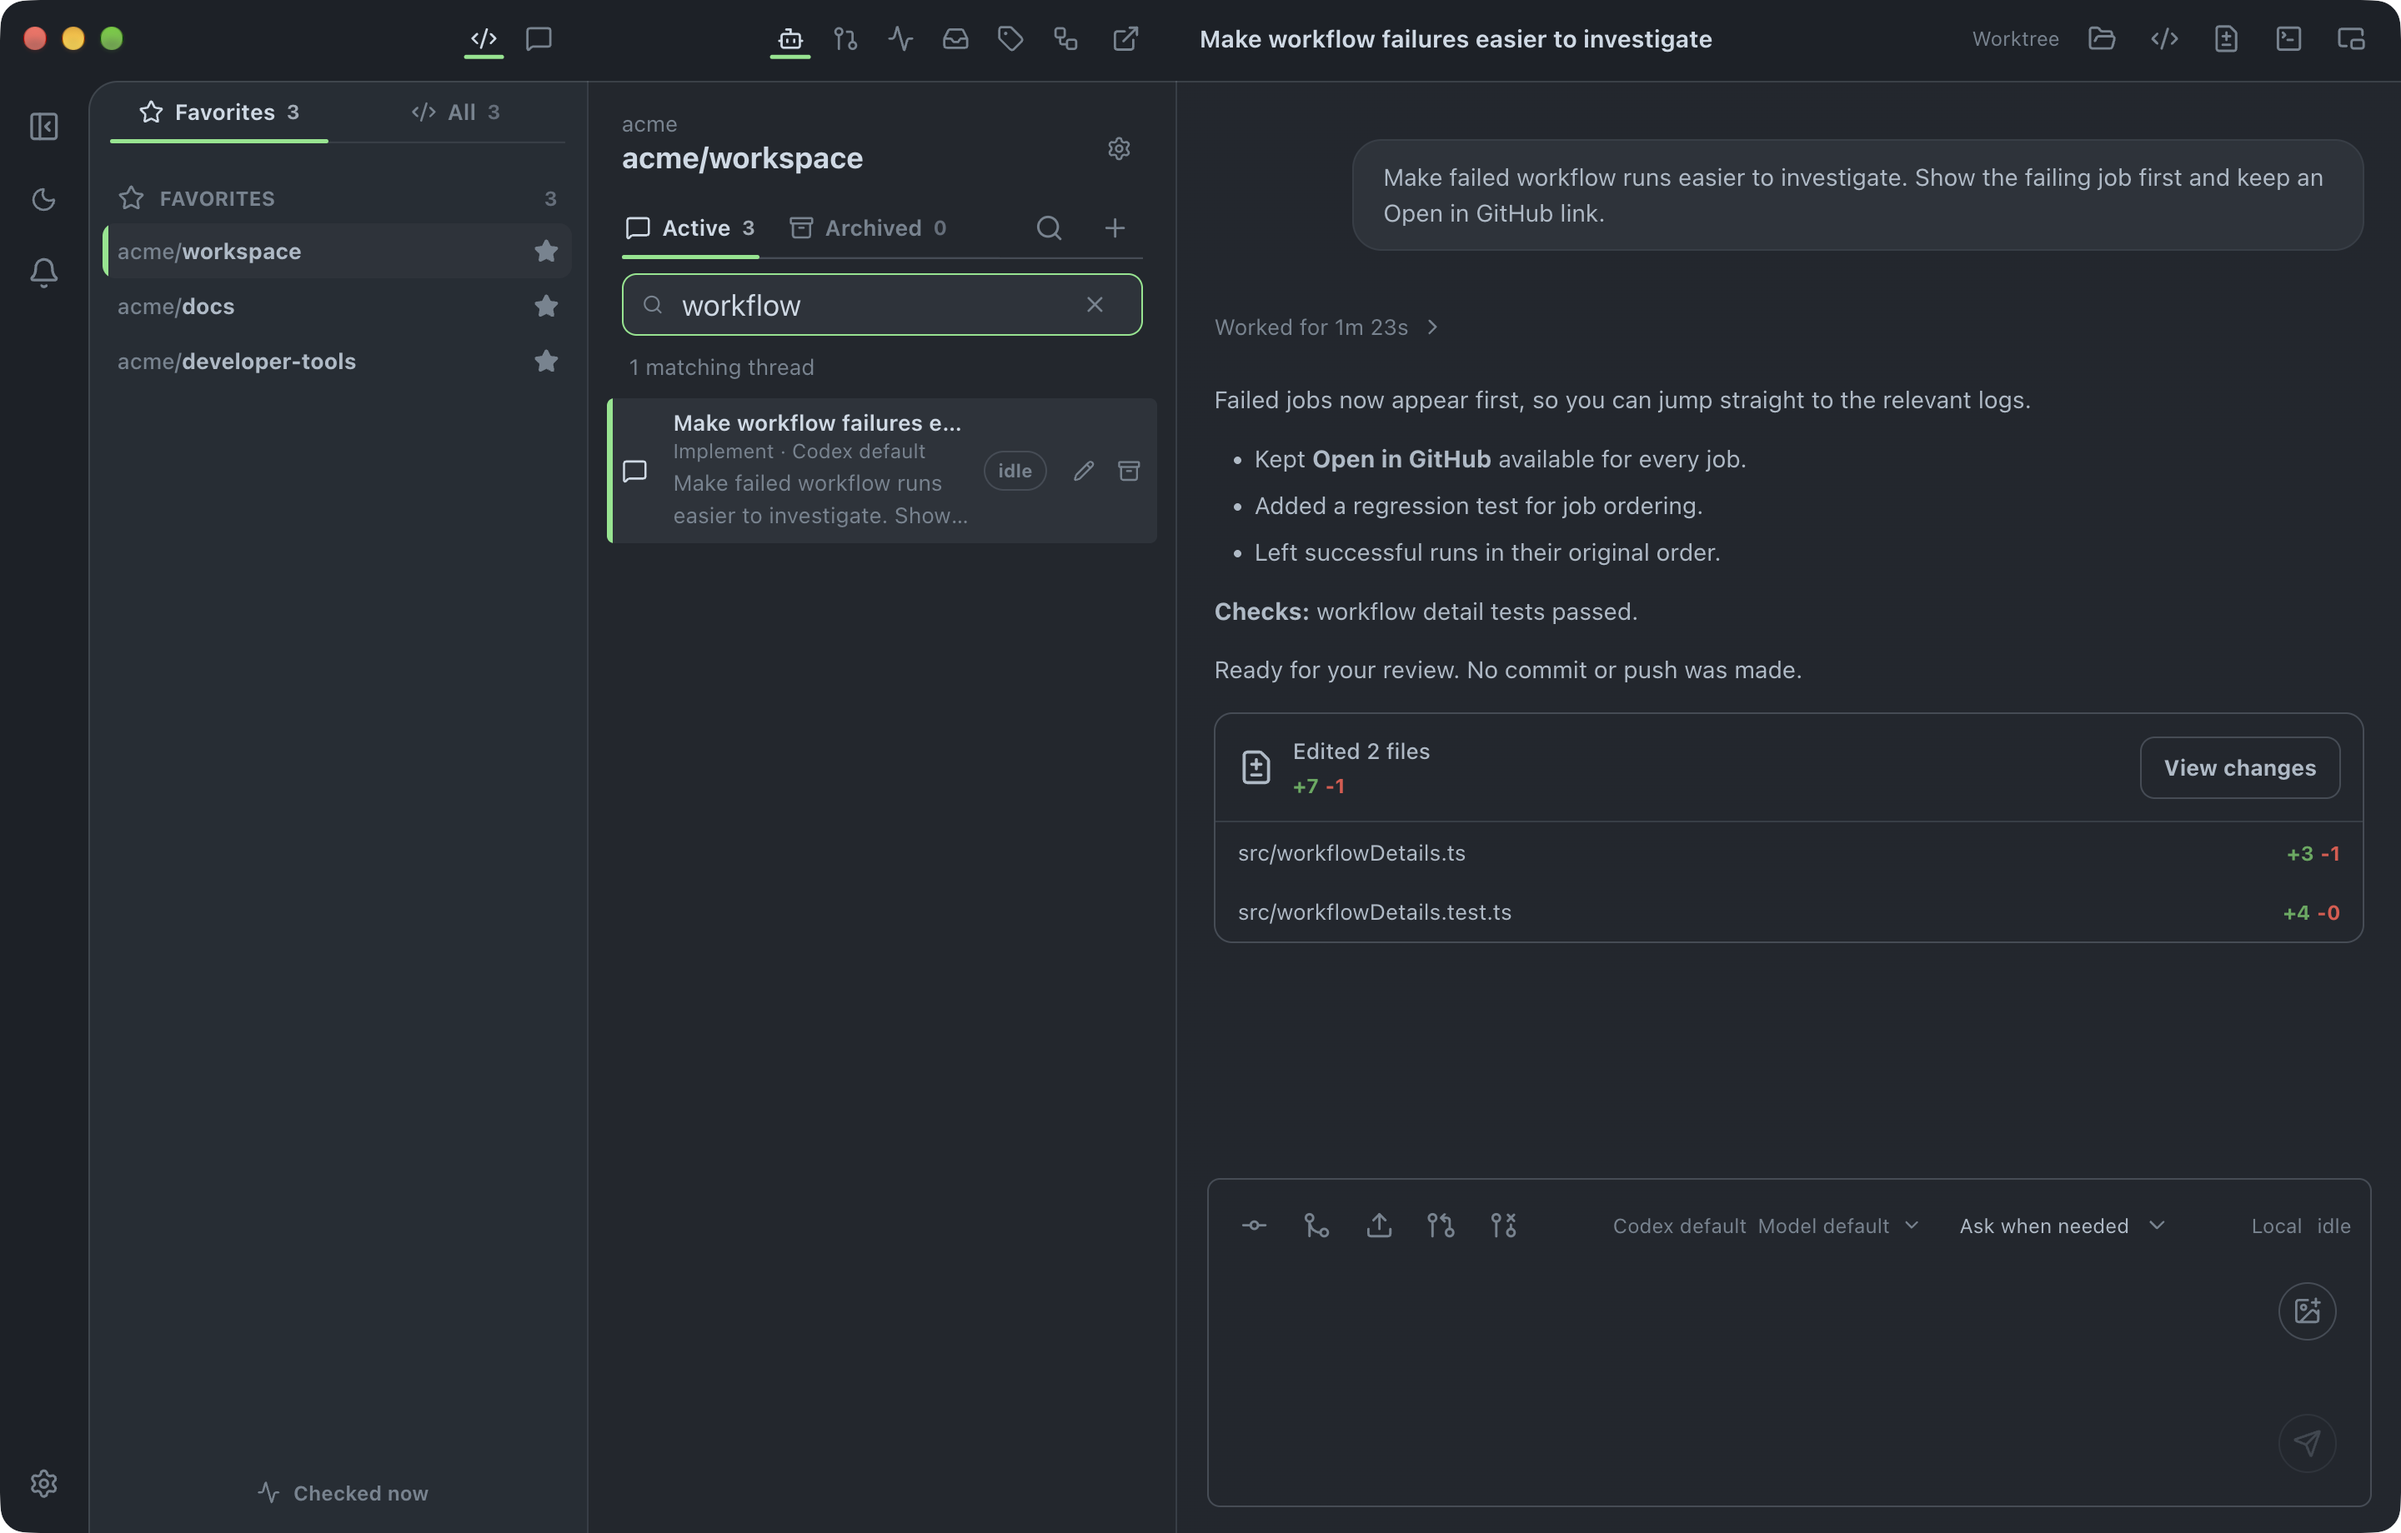
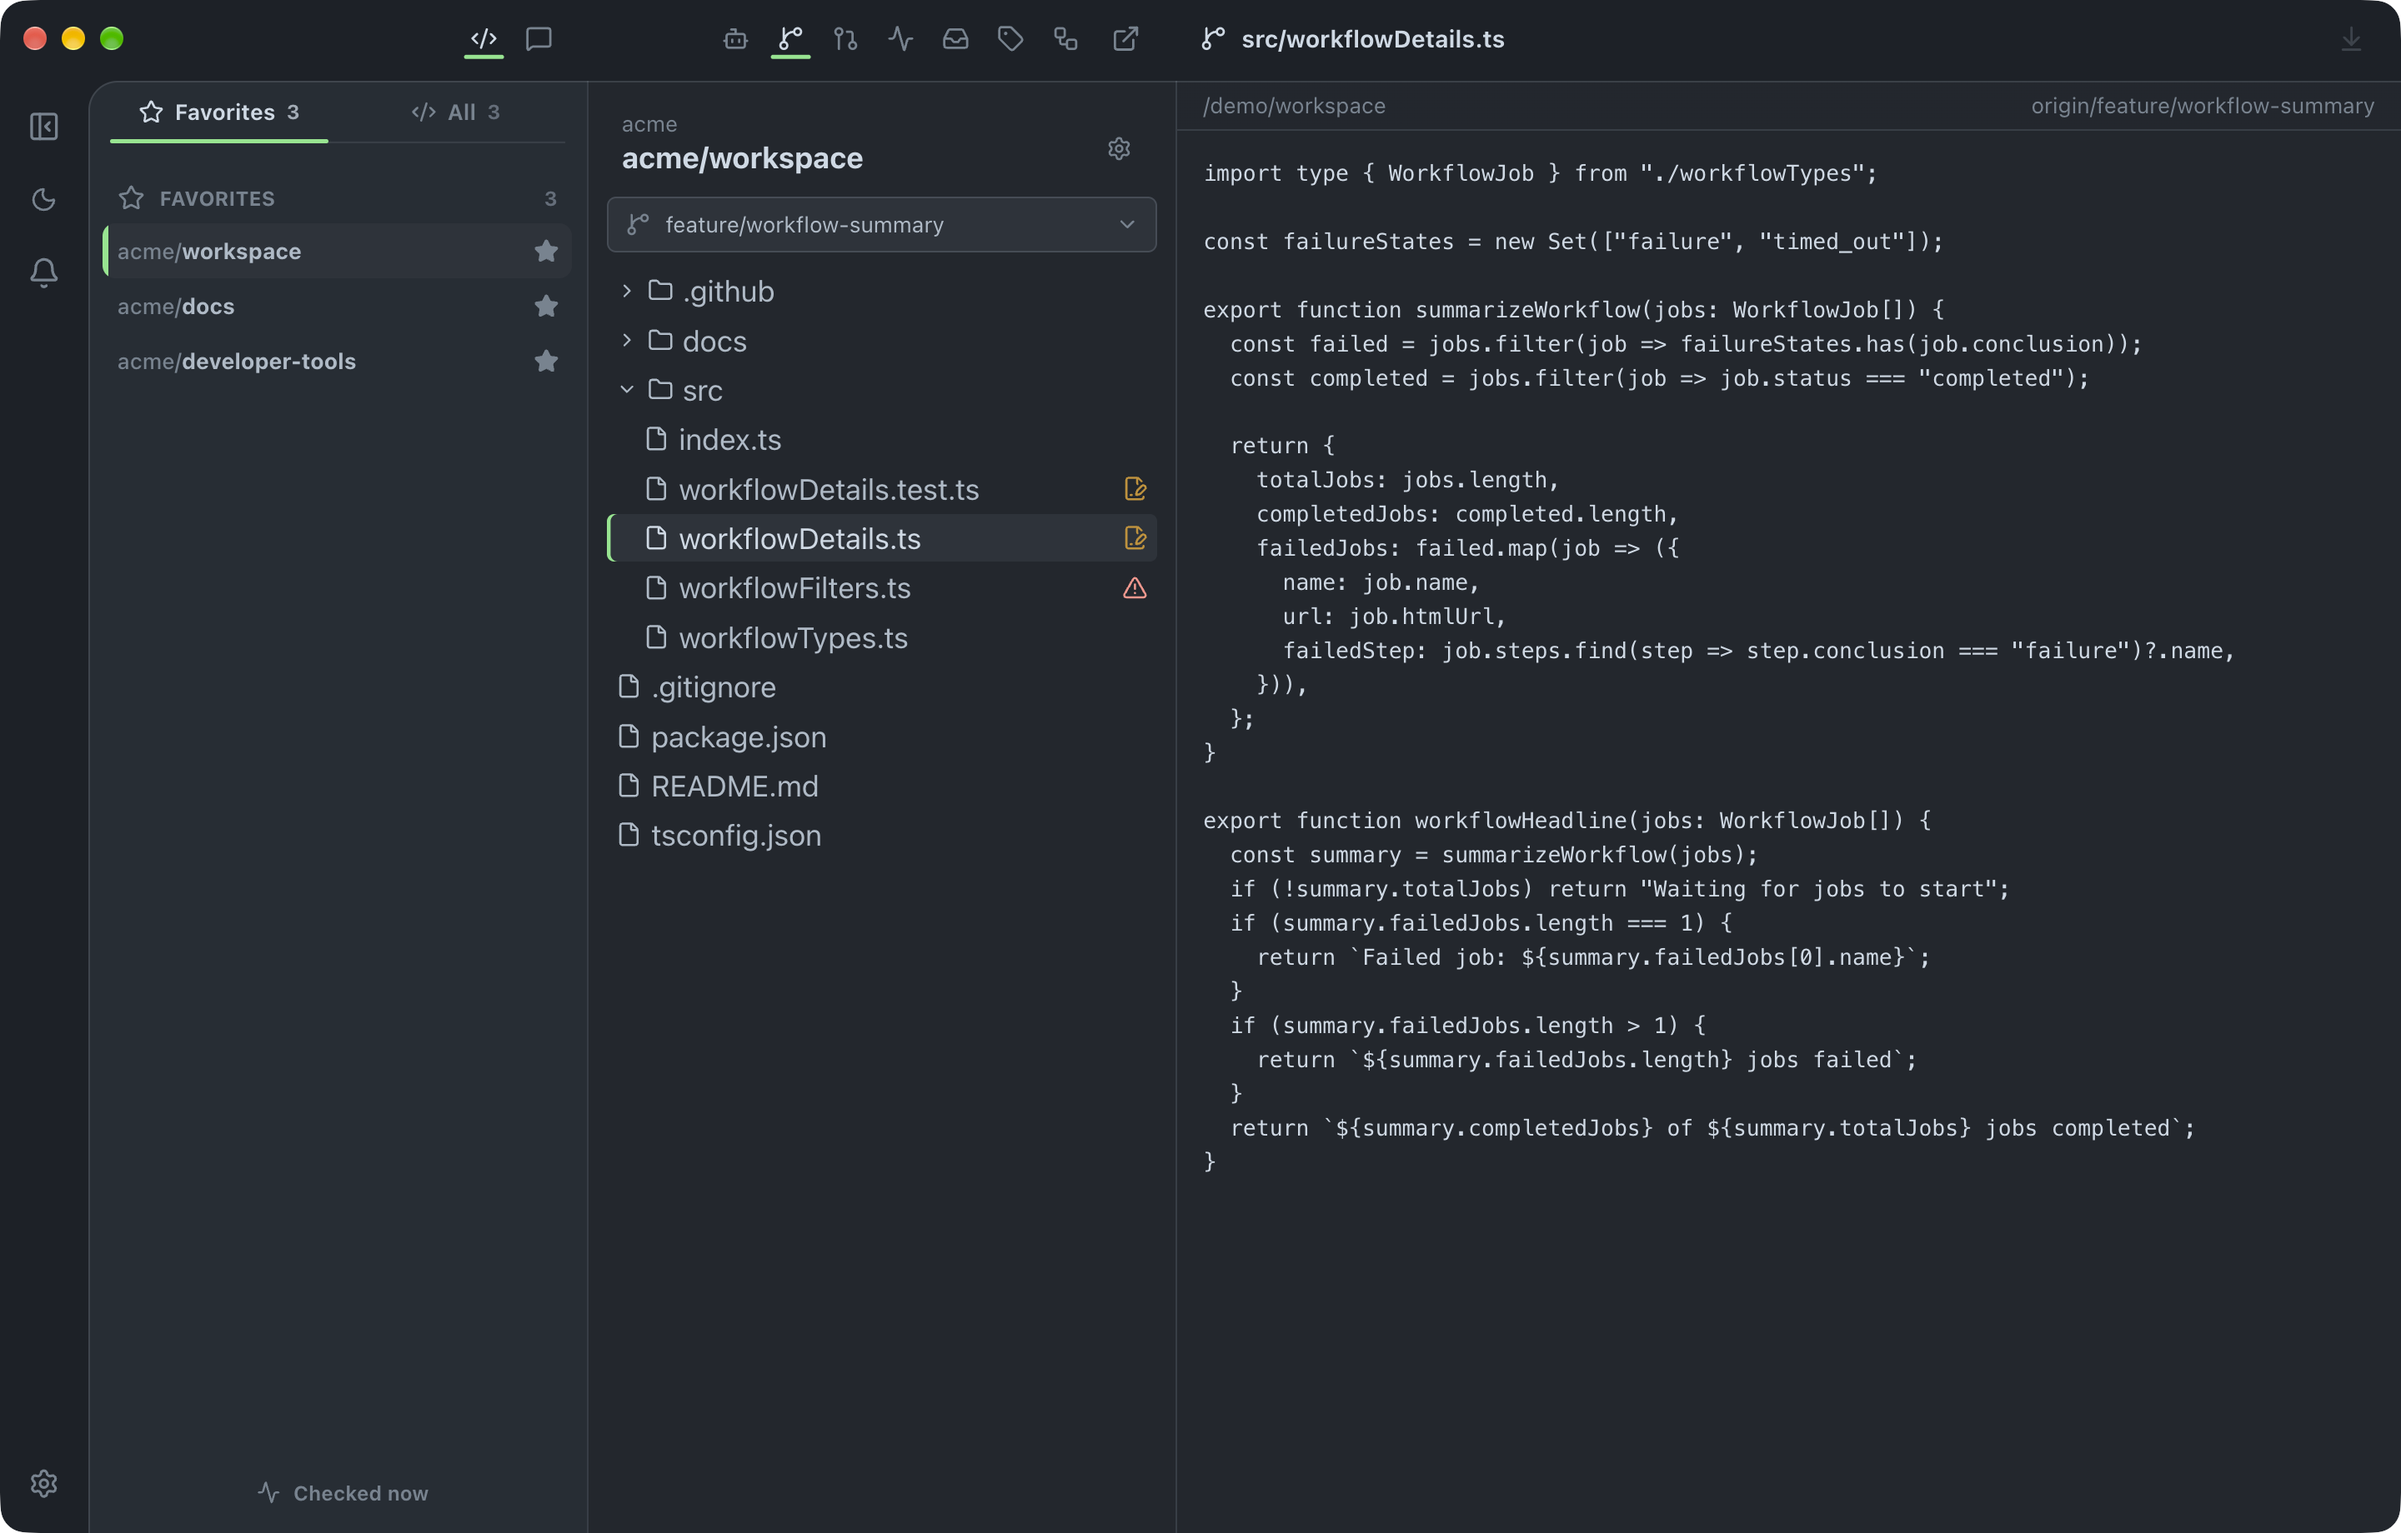
docs: showcase Git Explorer on the Forge homepage

diff --git a/src/website.test.ts b/src/website.test.ts
@@ -6,7 +6,7 @@ import { describe, expect, it } from "vitest";
 const homepage = readFileSync(path.resolve("website/index.html"), "utf8");
 const siteScript = readFileSync(path.resolve("website/site.js"), "utf8");
 
-describe("homepage Codex previews", () => {
+describe("homepage Forge previews", () => {
   it("switches between the bundled dark and light screenshots with the theme control", () => {
     document.documentElement.innerHTML = homepage;
     localStorage.clear();
@@ -29,7 +29,7 @@ describe("homepage Codex previews", () => {
       expect(toggle.getAttribute("aria-label")).toBe("Switch to light theme");
       toggle.click();
       expect(preview.getAttribute("src")).toBe("screenshots/forge-dark.png");
-      expect(preview.alt).toContain("Codex");
+      expect(preview.alt).toContain("Git Explorer");
     } finally {
       document.documentElement.innerHTML = "";
       localStorage.clear();

diff --git a/website/index.html b/website/index.html
@@ -98,7 +98,7 @@
             <img
               data-preview-image
               src="screenshots/forge-dark.png"
-              alt="Forge desktop app showing repository navigation, Codex threads, and a conversation with a change summary and edited files."
+              alt="Forge’s Git Explorer showing the branch selector, a file tree with change and conflict markers, and a TypeScript file preview."
             />
           </div>
         </figure>

diff --git a/CHANGELOG.md b/CHANGELOG.md
@@ -16,6 +16,7 @@ All notable changes to Forge are documented in this file.
 - Open existing worktrees from the branch picker even during pending changes in the current checkout.
 - Open a file’s diff by double-clicking a changed file in Git Explorer.
 - Keep development Favorites across restarts while the installed app is open.
+- Show Git Explorer in the website’s main screenshot in both themes.
 - Refresh the website screenshots to show the current workspace, detached panes, and release view in both themes.
 
 ## [0.21.14]
